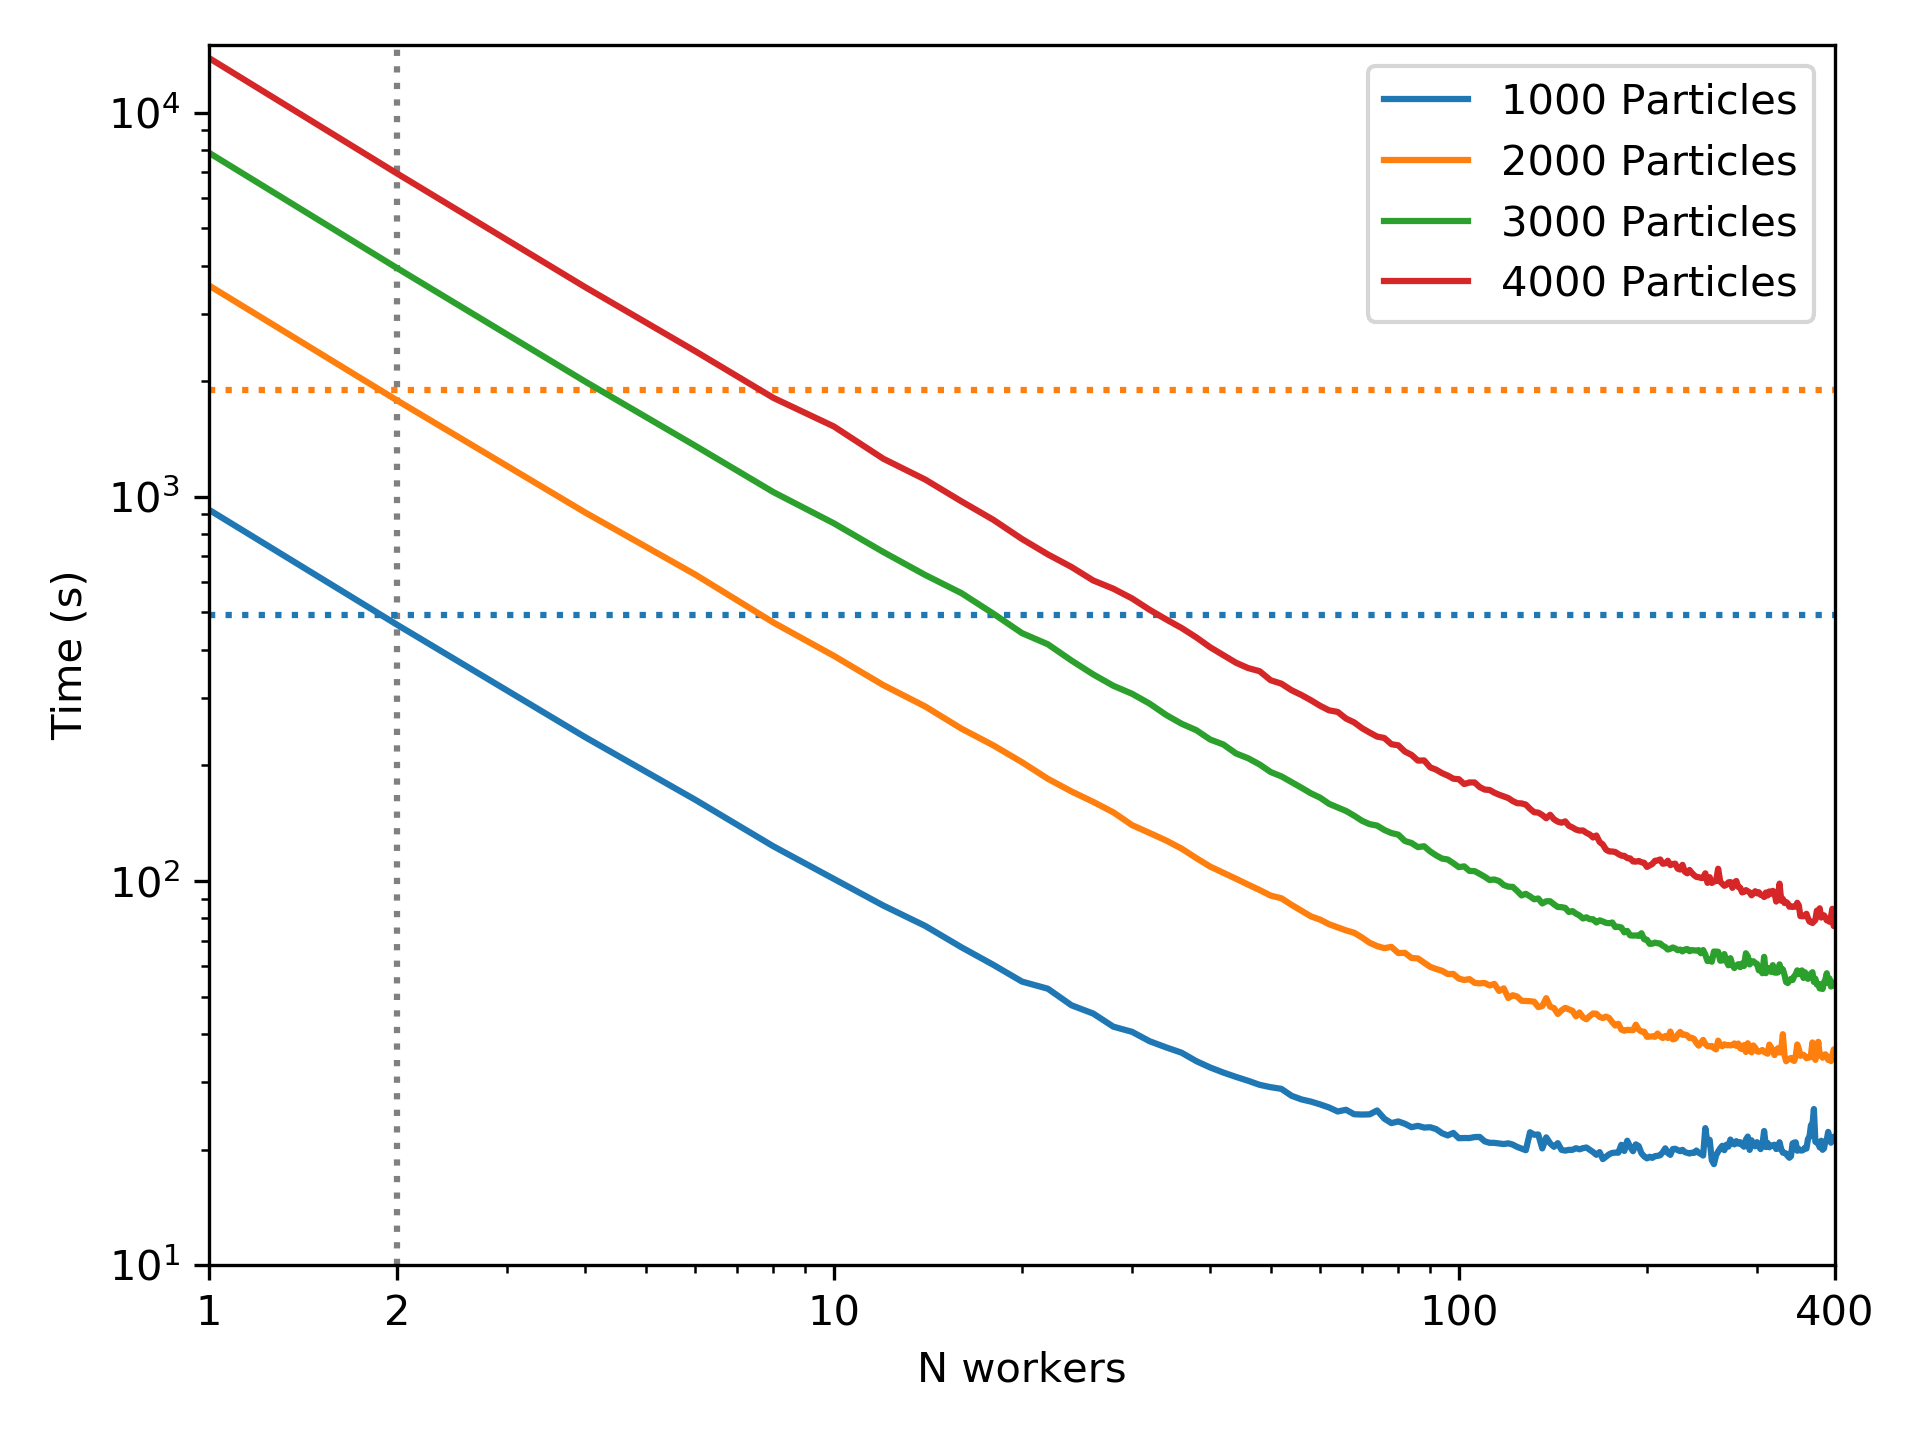
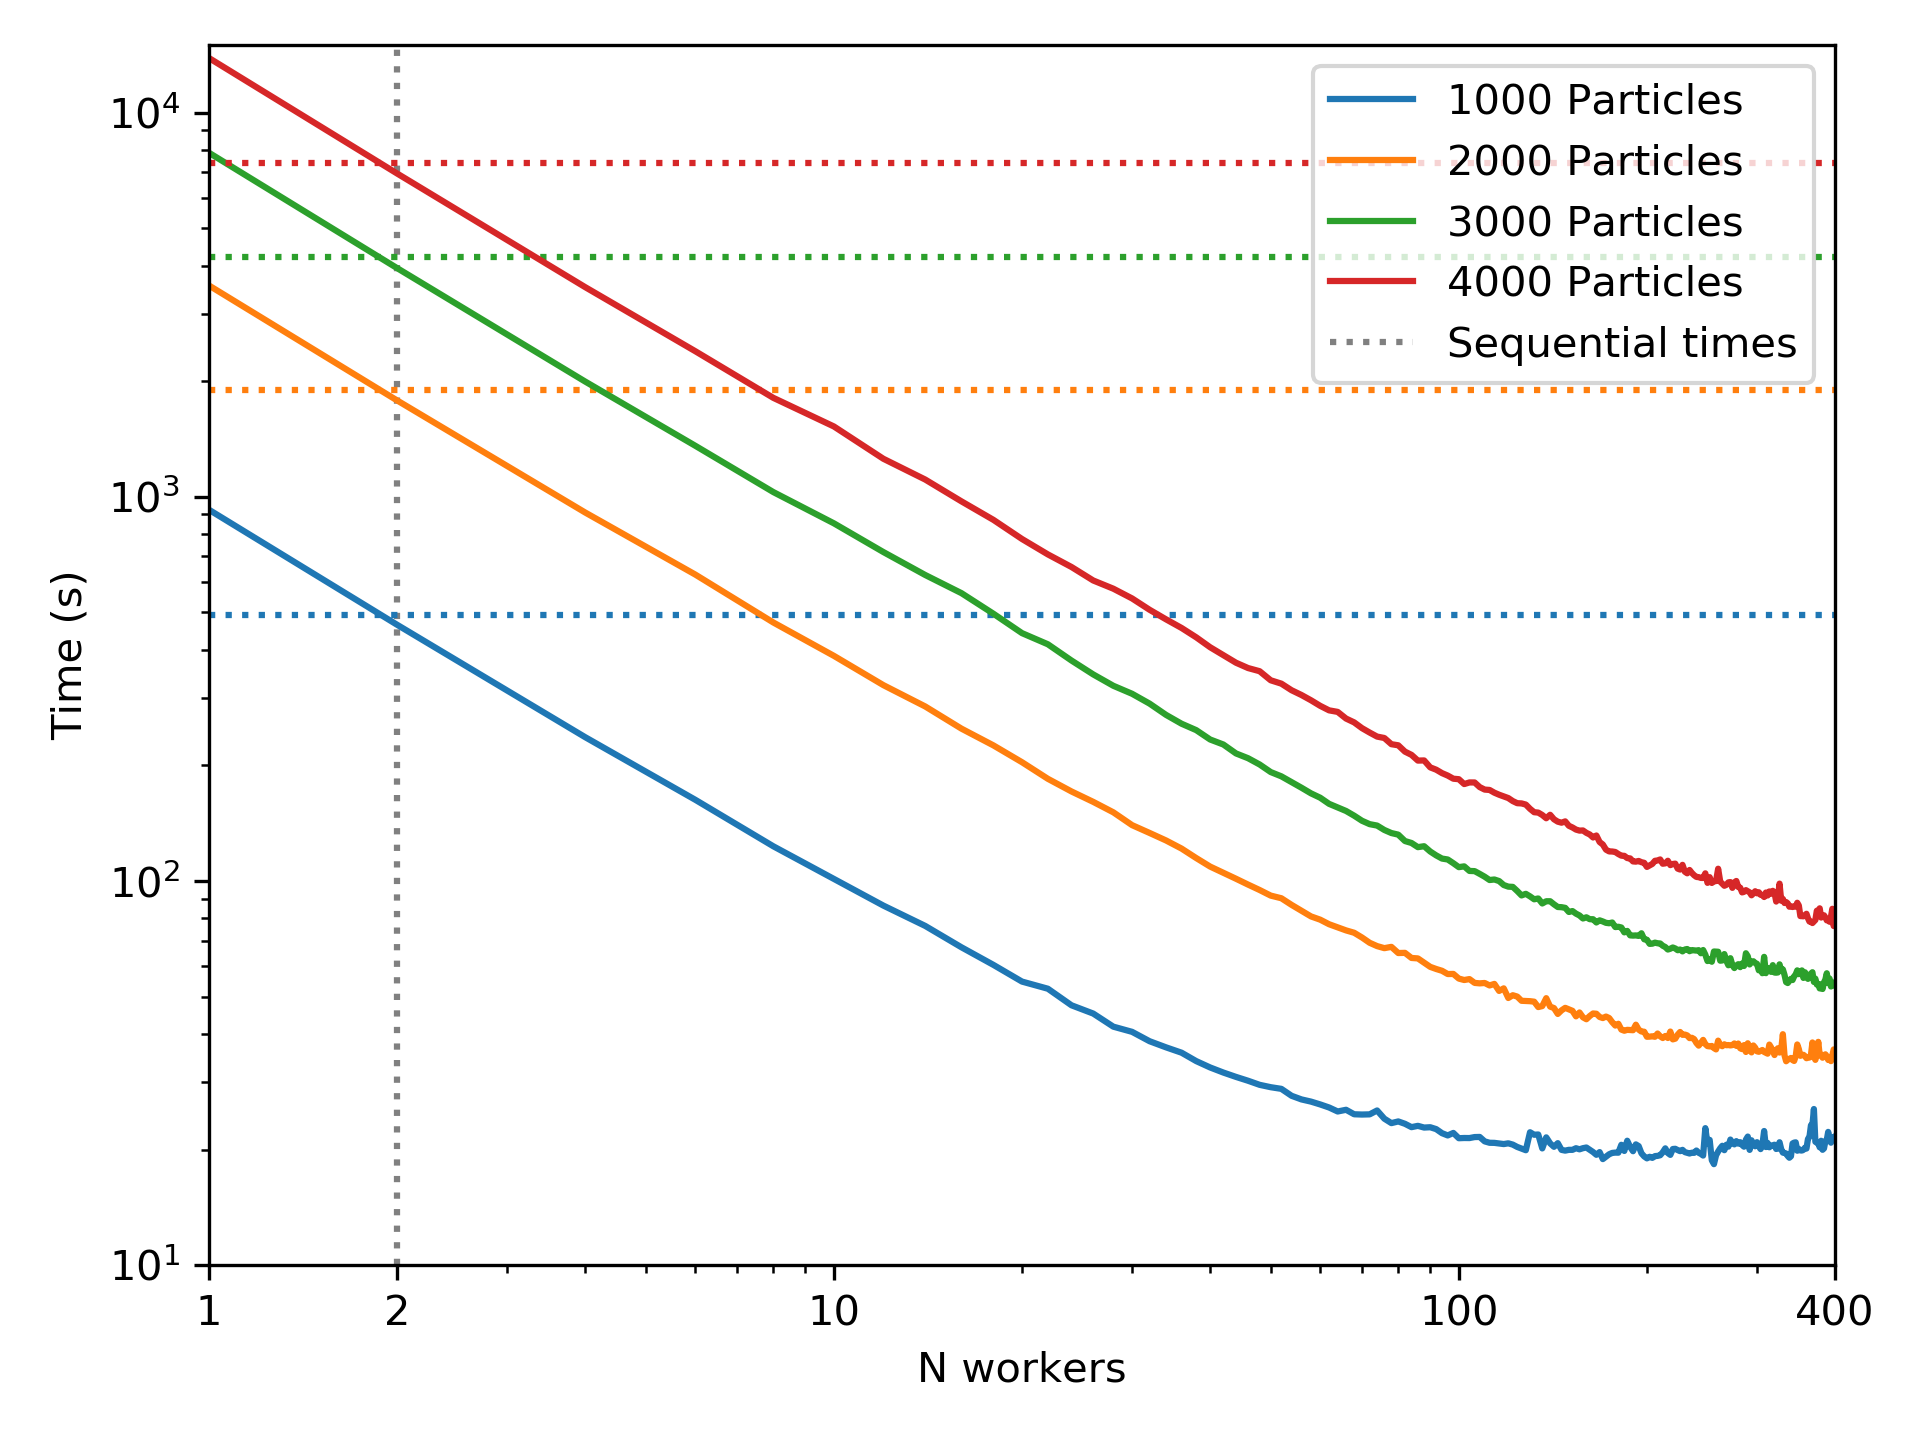
sgr

Changed region(s): [[0.7188, 0.0625, 0.9375, 0.25], [0.6562, 0.0312, 0.7188, 0.2188]]

diff --git a/paralel/speedup-plot.py b/paralel/speedup-plot.py
@@ -8,8 +8,8 @@ nproc, time3 = pd.read_csv('ts_test/speedup3k.log',header=None, sep='\s+').T.val
 nproc, time4 = pd.read_csv('ts_test/speedup4k.log',header=None, sep='\s+').T.values
 time_seq1 =  493.2708*np.ones_like(nproc)
 time_seq2 = 1891.4422*np.ones_like(nproc)
-time_seq3 = 1*np.ones_like(nproc)
-time_seq4 = 1*np.ones_like(nproc)
+time_seq3 = 4206.4909*np.ones_like(nproc)
+time_seq4 = 7405.5548*np.ones_like(nproc)
 
 speedup1=time1[0]/time1
 speedup2=time2[0]/time2
@@ -17,7 +17,7 @@ speedup3=time3[0]/time3
 speedup4=time4[0]/time4
 
 fig, ax = plt.subplots()
-ax.vlines(2,10,15000,'gray',':')
+ax.vlines(2,10,15000,'gray',':', label='Sequential times')
 ax.plot(nproc, time1,'C0-', label='1000 Particles')
 ax.plot(nproc, time_seq1,'C0:')
 ax.plot(nproc, time2,'C1-', label='2000 Particles')
@@ -28,7 +28,7 @@ ax.plot(nproc, time4,'C3-', label='4000 Particles')
 ax.plot(nproc, time_seq4,'C3:')
 ax.set(xlim=(nproc[0],nproc[-1]), ylim=(10,15000), xlabel='N workers', ylabel='Time (s)',xscale='log', yscale='log')
 plt.xticks((1,2,10,100,400),('1','2','10','100','400'))
-plt.legend()
+plt.legend(loc=1)
 plt.tight_layout()
 plt.savefig('temps_MPI.png', dpi=300)
 # plt.show()
